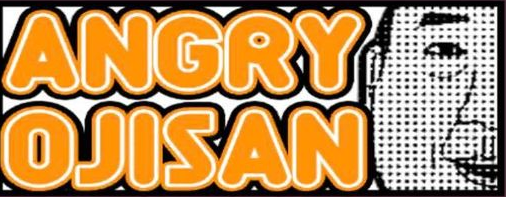
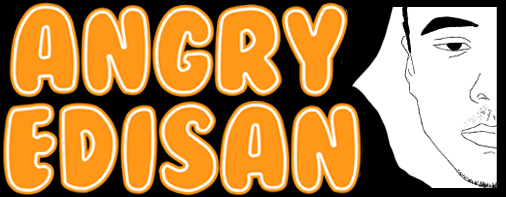
Add photos

diff --git a/src/common/numberToImageMap.js b/src/common/numberToImageMap.js
@@ -1,37 +1,37 @@
 export const numberToImageMap = new Map();
 numberToImageMap.set(0,"/assets/photo/winner/birsan.png")
-numberToImageMap.set(1,"/assets/photo/winner/birsan.png")
+numberToImageMap.set(1,"/assets/photo/winner/edi.png")
 numberToImageMap.set(2,"/assets/photo/winner/birsan.png")
-numberToImageMap.set(3,"/assets/photo/winner/birsan.png")
+numberToImageMap.set(3,"/assets/photo/winner/edi.png")
 numberToImageMap.set(4,"/assets/photo/winner/birsan.png")
-numberToImageMap.set(5,"/assets/photo/winner/birsan.png")
+numberToImageMap.set(5,"/assets/photo/winner/edi.png")
 numberToImageMap.set(6,"/assets/photo/winner/birsan.png")
-numberToImageMap.set(7,"/assets/photo/winner/birsan.png")
+numberToImageMap.set(7,"/assets/photo/winner/edi.png")
 numberToImageMap.set(8,"/assets/photo/winner/birsan.png")
-numberToImageMap.set(9,"/assets/photo/winner/birsan.png")
+numberToImageMap.set(9,"/assets/photo/winner/edi.png")
 numberToImageMap.set(10,"/assets/photo/winner/birsan.png")
-numberToImageMap.set(11,"/assets/photo/winner/birsan.png")
+numberToImageMap.set(11,"/assets/photo/winner/edi.png")
 numberToImageMap.set(12,"/assets/photo/winner/birsan.png")
-numberToImageMap.set(13,"/assets/photo/winner/birsan.png")
+numberToImageMap.set(13,"/assets/photo/winner/edi.png")
 numberToImageMap.set(14,"/assets/photo/winner/birsan.png")
-numberToImageMap.set(15,"/assets/photo/winner/birsan.png")
+numberToImageMap.set(15,"/assets/photo/winner/edi.png")
 numberToImageMap.set(16,"/assets/photo/winner/birsan.png")
 
 export const numberToLosingImageMap = new Map();
 numberToLosingImageMap.set(0,"/assets/photo/loser/birsan.png")
-numberToLosingImageMap.set(1,"/assets/photo/loser/birsan.png")
+numberToLosingImageMap.set(1,"/assets/photo/loser/edi.png")
 numberToLosingImageMap.set(2,"/assets/photo/loser/birsan.png")
-numberToLosingImageMap.set(3,"/assets/photo/loser/birsan.png")
+numberToLosingImageMap.set(3,"/assets/photo/loser/edi.png")
 numberToLosingImageMap.set(4,"/assets/photo/loser/birsan.png")
-numberToLosingImageMap.set(5,"/assets/photo/loser/birsan.png")
+numberToLosingImageMap.set(5,"/assets/photo/loser/edi.png")
 numberToLosingImageMap.set(6,"/assets/photo/loser/birsan.png")
-numberToLosingImageMap.set(7,"/assets/photo/loser/birsan.png")
+numberToLosingImageMap.set(7,"/assets/photo/loser/edi.png")
 numberToLosingImageMap.set(8,"/assets/photo/loser/birsan.png")
-numberToLosingImageMap.set(9,"/assets/photo/loser/birsan.png")
+numberToLosingImageMap.set(9,"/assets/photo/loser/edi.png")
 numberToLosingImageMap.set(10,"/assets/photo/loser/birsan.png")
-numberToLosingImageMap.set(11,"/assets/photo/loser/birsan.png")
+numberToLosingImageMap.set(11,"/assets/photo/loser/edi.png")
 numberToLosingImageMap.set(12,"/assets/photo/loser/birsan.png")
-numberToLosingImageMap.set(13,"/assets/photo/loser/birsan.png")
+numberToLosingImageMap.set(13,"/assets/photo/loser/edi.png")
 numberToLosingImageMap.set(14,"/assets/photo/loser/birsan.png")
-numberToLosingImageMap.set(15,"/assets/photo/loser/birsan.png")
+numberToLosingImageMap.set(15,"/assets/photo/loser/edi.png")
 numberToLosingImageMap.set(16,"/assets/photo/loser/birsan.png")
